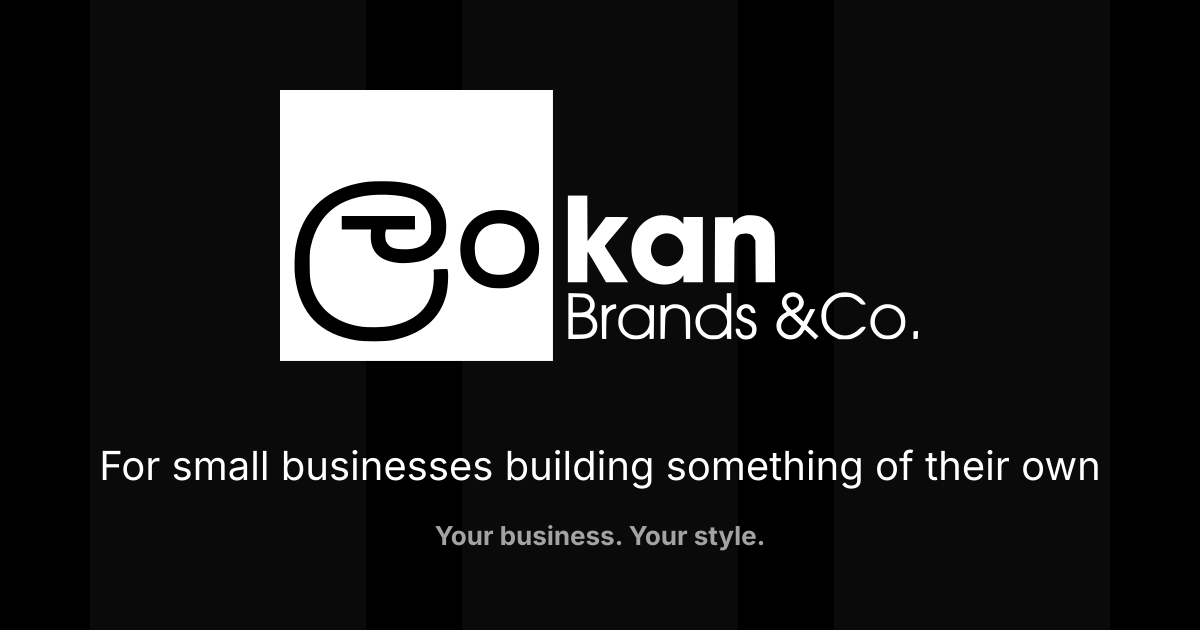
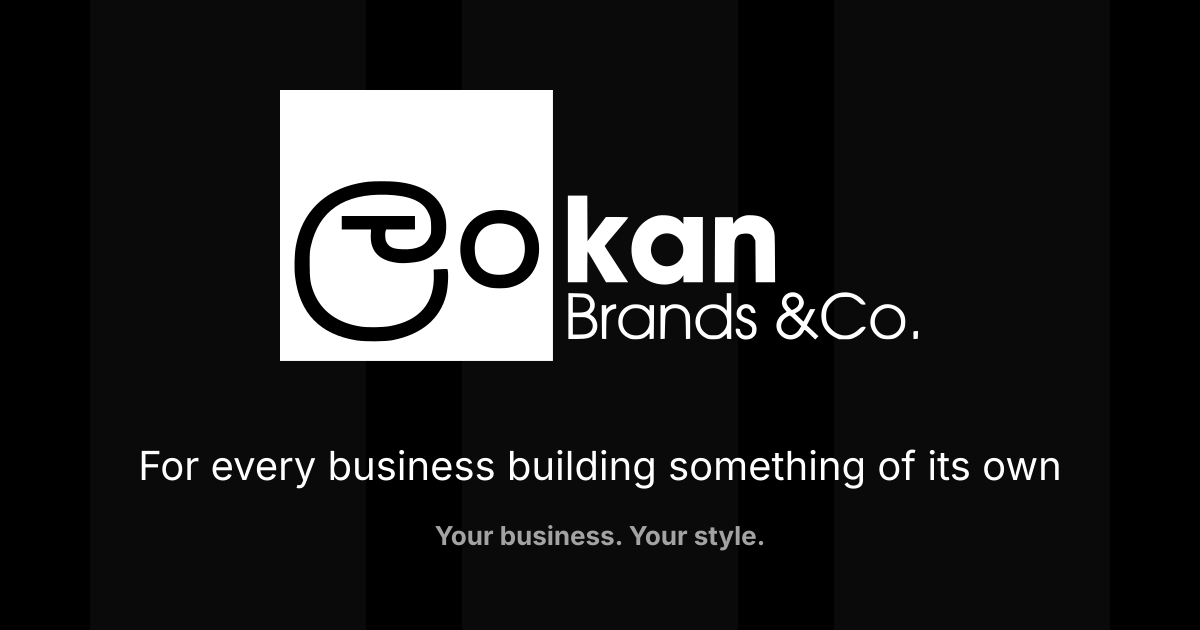
Broaden audience from small businesses to every size of business
- Tagline: "For every business building something of its own" (site,
  social-share image, logo-and-tagline lockup, brand script, Invoice
  Studio default, README). The OG image alt now reads from site.tagline.
- Description, homepage intro, About statement, page meta descriptions,
  the first FAQ ("What size of business do you work with?") and the
  Paid Advertising line ("Every budget, spent with intent.") now speak to
  founders, family businesses, growing companies and established brands.
- Homepage "Who we're for" photo grid (bakery, café, stall…) becomes
  "Who we work with": six client types from founders to corporates and
  personal brands (site.audiences). Removes the now-unused MakersGrid
  component and its Pexels photos.

Claude-Session: https://claude.ai/code/session_014apG1p9rZZa8hMpdB5GsF7

Changed region(s): [[0.0617, 0.6937, 0.925, 0.7841]]

diff --git a/src/data/site.ts b/src/data/site.ts
@@ -4,10 +4,10 @@
  */
 export const site = {
   name: 'Lankan Brands & Co.',
-  tagline: 'For small businesses building something of their own',
+  tagline: 'For every business building something of its own',
   secondary: 'Your business. Your style.',
   description:
-    'Lankan Brands & Co. is a boutique branding and digital marketing studio for small businesses and founders who want authentic, stylish growth — not corporate noise.',
+    'Lankan Brands & Co. is a boutique branding and digital marketing studio for businesses of every size — from first-time founders to established companies — that want authentic, stylish growth.',
   email: import.meta.env.PUBLIC_CONTACT_EMAIL || 'lankanbrands.co@gmail.com',
   // One number for calls and WhatsApp. `e164` drives tel: links, `whatsapp` drives wa.me links.
   phone: {
@@ -66,6 +66,16 @@ export const values = [
   },
 ] as const;
 
+/** Who we work with — the range of clients, shown on the homepage. */
+export const audiences = [
+  { title: 'Founders & start-ups', body: 'Naming, identity and a confident launch for something brand new.' },
+  { title: 'Small & family businesses', body: 'Shops, cafés and studios that want a brand with a personal touch.' },
+  { title: 'Growing companies', body: 'Sharper positioning and marketing that keeps pace as you scale.' },
+  { title: 'Established brands', body: 'Refreshes, sub-brands and campaigns that keep a known name ahead.' },
+  { title: 'Corporates & institutions', body: 'Clear, consistent communication across every team and touchpoint.' },
+  { title: 'Events, causes & personal brands', body: 'Launches, campaigns and public profiles that need to be seen.' },
+] as const;
+
 export const services = [
   {
     title: 'Branding & Identity',
@@ -89,7 +99,7 @@ export const services = [
   },
   {
     title: 'Paid Advertising',
-    summary: 'Small budgets, spent with intent.',
+    summary: 'Every budget, spent with intent.',
     detail: 'Meta & Google campaigns, creative testing, tracking set-up and honest monthly reporting.',
   },
   {
@@ -121,8 +131,8 @@ export const process = [
 /** Frequently asked questions — answers only restate what the rest of the site promises. */
 export const faqs = [
   {
-    q: 'We’re a very small business. Is that okay?',
-    a: 'That’s exactly who we’re for. We build brands for the bakery, the studio and the side project that became the main thing — the businesses that are truly someone’s own.',
+    q: 'What size of business do you work with?',
+    a: 'Every size. We work with first-time founders, family businesses, growing companies and established brands — and shape every engagement around your stage, your budget and your goals.',
   },
   {
     q: 'Do we have to sign up for everything?',

diff --git a/public/invoice/index.html b/public/invoice/index.html
@@ -954,7 +954,7 @@ const DEFAULT_SERVICES = [
 
 function defaultSettings() {
   return {
-    company: { name: 'Lankan Brands & Co.', tagline: 'For small businesses building something of their own', motto: 'Your business. Your style.', address: 'Sri Lanka', phone: '+94 72 788 6000', email: 'lankanbrands.co@gmail.com', website: 'lankan-co.github.io', regNo: '', taxId: '' },
+    company: { name: 'Lankan Brands & Co.', tagline: 'For every business building something of its own', motto: 'Your business. Your style.', address: 'Sri Lanka', phone: '+94 72 788 6000', email: 'lankanbrands.co@gmail.com', website: 'lankan-co.github.io', regNo: '', taxId: '' },
     logo: BRAND_LOGO, logoHeight: 52,
     signatory: { name: '', title: 'Authorised signatory', image: '' },
     bank: { accountName: 'Lankan Brands & Co.', accountNo: '', bankName: '', branch: '', swift: '', other: '' },

diff --git a/README.md b/README.md
@@ -2,7 +2,7 @@
   <img src="public/brand/lankan-logo.png" alt="Lankan Brands & Co." width="420" />
 </p>
 
-<h3 align="center">For small businesses building something of their own</h3>
+<h3 align="center">For every business building something of its own</h3>
 <p align="center"><strong>Your business. Your style.</strong></p>
 
 <p align="center">
@@ -11,7 +11,7 @@
 
 ---
 
-The website for **Lankan Brands & Co.**, a boutique branding and digital marketing studio for small businesses and founders. It's a fully static, multi-page site with a deliberately simple look: light pages, big thin uppercase titles, generous whitespace, and the work at the centre.
+The website for **Lankan Brands & Co.**, a boutique branding and digital marketing studio for businesses of every size, from first-time founders to established companies. It's a fully static, multi-page site with a deliberately simple look: light pages, big thin uppercase titles, generous whitespace, and the work at the centre.
 
 ## ✦ Highlights
 
@@ -49,12 +49,11 @@ npm run preview    # serve dist/ locally
 │   └── og-image.png               # 1200×630 social card
 ├── scripts/brand-assets.mjs       # Regenerates public/brand, icons and the OG image
 └── src/
-    ├── assets/makers/             # "Who we're for" stock photos (Pexels) + CREDITS.md
     ├── assets/projects/<slug>/    # Project photos: cover.jpg + gallery (01.jpg, 02.jpg…)
     ├── components/
     │   ├── islands/ContactForm.tsx  # Web3Forms contact form (React, client:visible)
     │   ├── sections/              # Header, Footer
-    │   └── ui/                    # Logo, ProjectCard, MakersGrid, CtaBand, WhatsApp button/icon
+    │   └── ui/                    # Logo, ProjectCard, CtaBand, SocialIcon, WhatsApp button/icon
     ├── data/
     │   ├── site.ts                # ← COPY & CONTACT: services, values, process, FAQ, email, phone, socials
     │   ├── projects.ts            # ← WORK: one entry per project
@@ -92,7 +91,7 @@ Buttons are `.btn` combined with `.btn-primary` (black pill) or `.btn-ghost` (ou
 
 ## ✦ Editing content
 
-Site copy is in **`src/data/site.ts`**: the tagline, services, values, process steps, FAQ, email, phone, location and social links. Social profiles (`site.social`: label, icon, handle, URL) appear with icons in the footer and on the Contact page, and are listed as `sameAs` in the structured data. Links with an empty `href` are hidden. Icons are in `src/components/ui/SocialIcon.astro`: Facebook, Instagram and Threads come from Simple Icons (CC0), and LinkedIn comes from Lucide (ISC).
+Site copy is in **`src/data/site.ts`**: the tagline, who we work with, services, values, process steps, FAQ, email, phone, location and social links. Social profiles (`site.social`: label, icon, handle, URL) appear with icons in the footer and on the Contact page, and are listed as `sameAs` in the structured data. Links with an empty `href` are hidden. Icons are in `src/components/ui/SocialIcon.astro`: Facebook, Instagram and Threads come from Simple Icons (CC0), and LinkedIn comes from Lucide (ISC).
 
 ## ✦ Adding a project
 
@@ -101,8 +100,6 @@ Site copy is in **`src/data/site.ts`**: the tagline, services, values, process s
 3. Add an entry to `src/data/projects.ts` with the same `slug`, plus a title, date (`YYYY-MM-DD`), category, a one- or two-sentence summary and a short description of the cover photo. Set `featured: true` to show it on the homepage.
 
 The Work grid, the filter tabs (one per category), the project page and the homepage's "Selected work" all appear automatically. Until the first project is added, the Work page shows a short "coming soon" note.
-
-> The "Who we're for" photos are illustrative Pexels stock photos, not client work. Keep them out of the Work pages.
 
 ## ✦ Contact details
 
